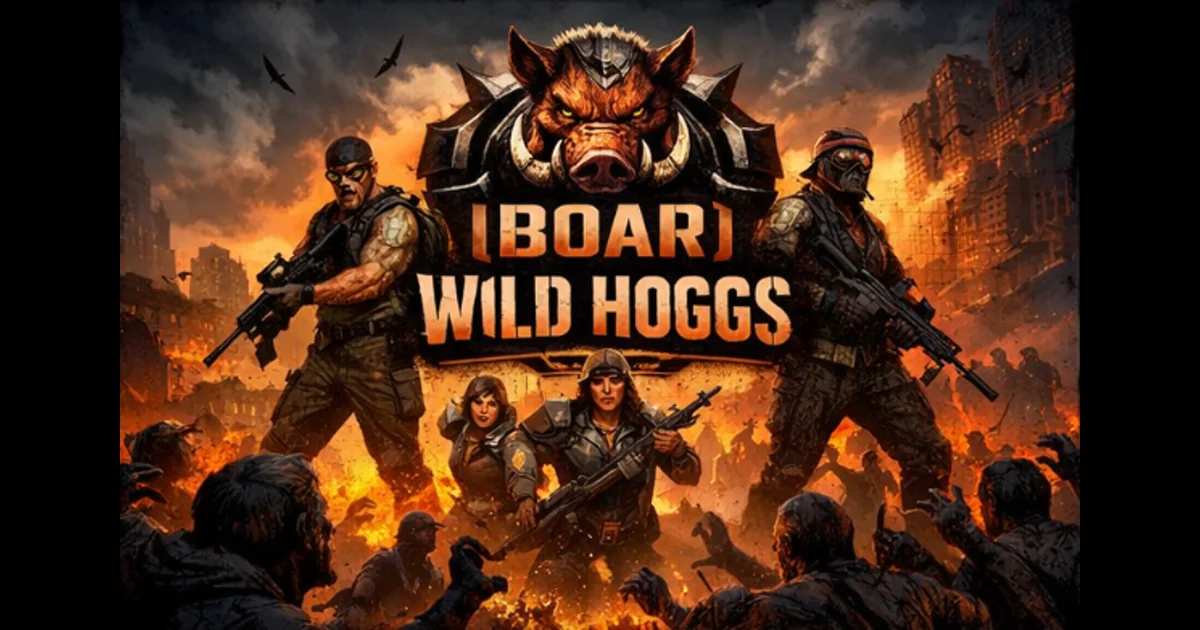
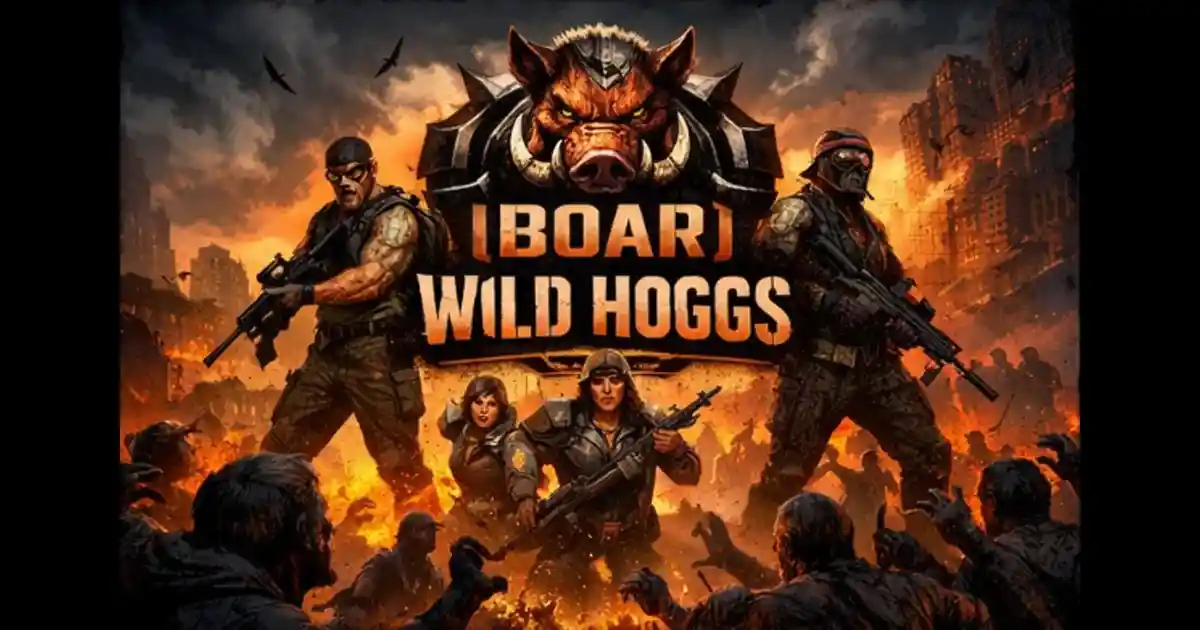
fix(perf): compress OG images with WebP q30 — 115–138KB → 33–57KB (P11)
All 6 og-*.webp files reduced by 57–63% using sharp quality:30.
Meets the <60KB target for faster social preview generation.

diff --git a/AUDIT_SENIOR34.md b/AUDIT_SENIOR34.md
@@ -615,7 +615,7 @@ Minimalpadding könnte unter 44×44px (WCAG 2.5.5 Target Size) liegen.
 |---|---|---|---|
 | ~~P09~~ | ~~Performance~~ | ~~`client:load` → `client:idle` auf Calculators~~ | ✅ **FALSE POSITIVE** — Hero/Building/Caravan nutzen bereits `client:visible` (besser als idle). Tank/Research müssen `client:load` behalten (`overflow:hidden` blockt IntersectionObserver). |
 | ~~P10~~ | ~~Performance~~ | ~~Inline `style` auf Tool-Cards → CSS-Klassen~~ | ✅ **RESOLVED** 2026-02-24 |
-| P11 | Performance | OG-Images auf < 60KB optimieren | `public/og-*.webp` |
+| ~~P11~~ | ~~Performance~~ | ~~OG-Images auf < 60KB optimieren~~ | ✅ **RESOLVED** 2026-02-24 |
 | ~~P12~~ | ~~SEO~~ | ~~Category-spezifische OG-Images für Research-Seiten~~ | ✅ **RESOLVED** (commit `0999aea`) |
 | P13 | SEO | Heading-Hierarchie auf Startseite (H1→H3 Skip) | `index.astro:43` |
 | ~~P14~~ | ~~A11y~~ | ~~Select ohne `<label>` in BuildingCalculator~~ | ✅ **RESOLVED** 2026-02-24 |
@@ -672,4 +672,5 @@ Alle Befunde wurden durch direktes Lesen der Quelldateien mit exakten Zeilennumm
 | 2026-02-24 | P05 RESOLVED: prefers-reduced-motion in HeroGrid.css, RewardCodes.css, WeeklyRoses.css |
 | 2026-02-24 | P06 RESOLVED: Kontrast-Fixes — opacity-Kaskade entfernt, filter:saturate() stattdessen |
 | 2026-02-24 | P07 RESOLVED: Array-Bounds-Guard in HeroExpCalculator Loop |
+| 2026-02-24 | P11 RESOLVED: OG-Images mit sharp WebP q30 komprimiert — 115–138KB → 33–57KB (-57–63%) |
 | 2026-02-24 | EXTRA: Breakdown-Listen — keine fixed heights mehr, Body scrollt nativ |
